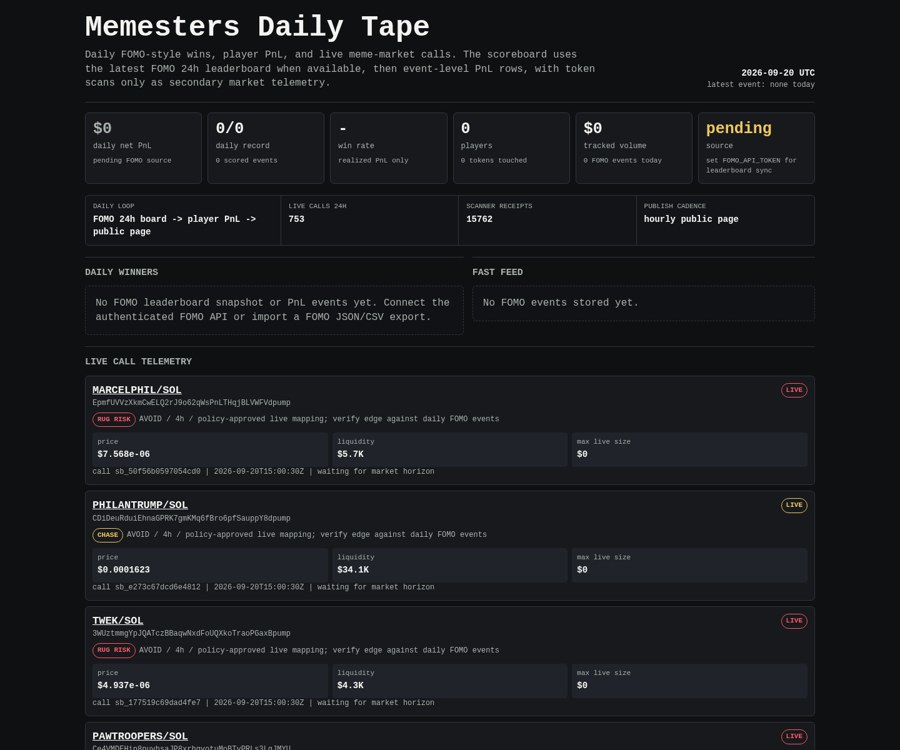
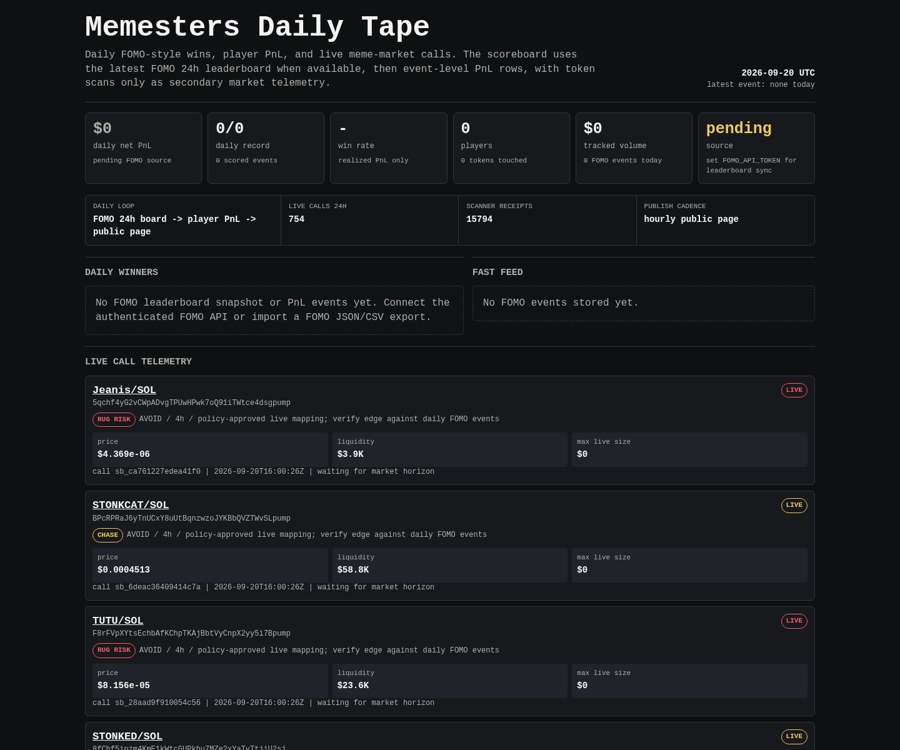
Update Memesters scoreboard

diff --git a/memesters/index.html b/memesters/index.html
@@ -149,8 +149,8 @@
 
     <div class="rail" aria-label="live operating loop">
       <div><span>daily loop</span><b>FOMO 24h board -> player PnL -> public page</b></div>
-      <div><span>live calls 24h</span><b>753</b></div>
-      <div><span>scanner receipts</span><b>15762</b></div>
+      <div><span>live calls 24h</span><b>754</b></div>
+      <div><span>scanner receipts</span><b>15794</b></div>
       <div><span>publish cadence</span><b>hourly public page</b></div>
     </div>
 
@@ -171,8 +171,8 @@
     <article class="receipt">
       <div class="receipt-head">
         <div>
-          <div class="pair"><a href="https://dexscreener.com/solana/fmlxkvax3amjsspg1zdjassumujxnazc86b2rhdaremg">MARCELPHIL/SOL</a></div>
-          <div class="addr">EpmfUVVzXkmCwELQ2rJ9o62qWsPnLTHqjBLVWFVdpump</div>
+          <div class="pair"><a href="https://dexscreener.com/solana/64kvzdq4f2pfet12q3xpjmyp8ter8pd1nye4yxibdxfw">Jeanis/SOL</a></div>
+          <div class="addr">5qchf4yG2vCWpADvgTPUwHPwk7oQ91iTWtce4dsgpump</div>
           <div class="addr policy-line">
             <span class="badge rug-risk">RUG RISK</span>
             <span>AVOID / 4h / policy-approved live mapping; verify edge against daily FOMO events</span>
@@ -181,19 +181,19 @@
         <span class="badge rug-risk">LIVE</span>
       </div>
       <div class="receipt-grid">
-        <div class="kv"><span>price</span><b>$7.568e-06</b></div>
-        <div class="kv"><span>liquidity</span><b>$5.7K</b></div>
+        <div class="kv"><span>price</span><b>$4.369e-06</b></div>
+        <div class="kv"><span>liquidity</span><b>$3.9K</b></div>
         <div class="kv"><span>max live size</span><b>$0</b></div>
       </div>
-      <div class="outcomes">call sb_50f56b0597054cd0 | 2026-09-20T15:00:30Z | waiting for market horizon</div>
+      <div class="outcomes">call sb_ca761227edea41f0 | 2026-09-20T16:00:26Z | waiting for market horizon</div>
     </article>
     
 
     <article class="receipt">
       <div class="receipt-head">
         <div>
-          <div class="pair"><a href="https://dexscreener.com/solana/8sggnw44cxywxvrmwzkz2jfueja3ydxyvdwa95vjhysp">PHILANTRUMP/SOL</a></div>
-          <div class="addr">CDiDeuRduiEhnaGPRK7gmKMq6fBro6pfSauppY8dpump</div>
+          <div class="pair"><a href="https://dexscreener.com/solana/6xpnaknvtpjzgtagqv2gaghjwkmq6v2ntncfbrx8gfx3">STONKCAT/SOL</a></div>
+          <div class="addr">BPcRPRaJ6yTnUCxY8uUtBqnzwzoJYKBbQVZTWvSLpump</div>
           <div class="addr policy-line">
             <span class="badge chase">CHASE</span>
             <span>AVOID / 4h / policy-approved live mapping; verify edge against daily FOMO events</span>
@@ -202,19 +202,19 @@
         <span class="badge chase">LIVE</span>
       </div>
       <div class="receipt-grid">
-        <div class="kv"><span>price</span><b>$0.0001623</b></div>
-        <div class="kv"><span>liquidity</span><b>$34.1K</b></div>
+        <div class="kv"><span>price</span><b>$0.0004513</b></div>
+        <div class="kv"><span>liquidity</span><b>$58.8K</b></div>
         <div class="kv"><span>max live size</span><b>$0</b></div>
       </div>
-      <div class="outcomes">call sb_e273c67dcd6e4812 | 2026-09-20T15:00:30Z | waiting for market horizon</div>
+      <div class="outcomes">call sb_6deac36409414c7a | 2026-09-20T16:00:26Z | waiting for market horizon</div>
     </article>
     
 
     <article class="receipt">
       <div class="receipt-head">
         <div>
-          <div class="pair"><a href="https://dexscreener.com/solana/9lcxfgzyj5pfmj8deqbatum5beaguiukqaeg5hokt4um">TWEK/SOL</a></div>
-          <div class="addr">3WUztmmgYpJQATczBBaqwNxdFoUQXkoTraoPGaxBpump</div>
+          <div class="pair"><a href="https://dexscreener.com/solana/6z3cpe5euhocmf7ysbnaybc8uh7kpk5htplkozizpye5">TUTU/SOL</a></div>
+          <div class="addr">F8rFVpXYtsEchbAfKChpTKAjBbtVyCnpX2yy5i7Bpump</div>
           <div class="addr policy-line">
             <span class="badge rug-risk">RUG RISK</span>
             <span>AVOID / 4h / policy-approved live mapping; verify edge against daily FOMO events</span>
@@ -223,61 +223,40 @@
         <span class="badge rug-risk">LIVE</span>
       </div>
       <div class="receipt-grid">
-        <div class="kv"><span>price</span><b>$4.937e-06</b></div>
-        <div class="kv"><span>liquidity</span><b>$4.3K</b></div>
+        <div class="kv"><span>price</span><b>$8.156e-05</b></div>
+        <div class="kv"><span>liquidity</span><b>$23.6K</b></div>
         <div class="kv"><span>max live size</span><b>$0</b></div>
       </div>
-      <div class="outcomes">call sb_177519c69dad4fe7 | 2026-09-20T15:00:30Z | waiting for market horizon</div>
+      <div class="outcomes">call sb_28aad9f910054c56 | 2026-09-20T16:00:26Z | waiting for market horizon</div>
     </article>
     
 
     <article class="receipt">
       <div class="receipt-head">
         <div>
-          <div class="pair"><a href="https://dexscreener.com/solana/ghyup3ot29dqrg3fwqldrt6xttkztb19ixejjqddzddm">PAWTROOPERS/SOL</a></div>
-          <div class="addr">Ce4VMDEHip8puyhsaJP8xrhgvotuMoBTyPRLs3LgJMYU</div>
+          <div class="pair"><a href="https://dexscreener.com/solana/dhhet2q5abwe3qgkhpyfuzfz9dbk4aq8xsvsxmsy1cdb">STONKED/SOL</a></div>
+          <div class="addr">8fChf5inzm4KmE1kWtcGUPkhu7MZe2xYaTyTtjiU2sj</div>
           <div class="addr policy-line">
-            <span class="badge rug-risk">RUG RISK</span>
+            <span class="badge chase">CHASE</span>
             <span>AVOID / 4h / policy-approved live mapping; verify edge against daily FOMO events</span>
           </div>
         </div>
-        <span class="badge rug-risk">LIVE</span>
+        <span class="badge chase">LIVE</span>
       </div>
       <div class="receipt-grid">
-        <div class="kv"><span>price</span><b>$4.912e-06</b></div>
-        <div class="kv"><span>liquidity</span><b>$4.2K</b></div>
+        <div class="kv"><span>price</span><b>$8.924e-05</b></div>
+        <div class="kv"><span>liquidity</span><b>$26.6K</b></div>
         <div class="kv"><span>max live size</span><b>$0</b></div>
       </div>
-      <div class="outcomes">call sb_fae5e08ea3274b4d | 2026-09-20T15:00:30Z | waiting for market horizon</div>
+      <div class="outcomes">call sb_adbd49134eed432e | 2026-09-20T16:00:26Z | waiting for market horizon</div>
     </article>
     
 
     <article class="receipt">
       <div class="receipt-head">
         <div>
-          <div class="pair"><a href="https://dexscreener.com/solana/8wseulqkvn7wqnvnbjlmmottvq27kefkzlt6o9wqmfhh">CATEPHIL/SOL</a></div>
-          <div class="addr">H8oS174Sf2ray6XvhMuGtCZTn1aWgcUd81U9iD2Vpump</div>
-          <div class="addr policy-line">
-            <span class="badge rug-risk">RUG RISK</span>
-            <span>AVOID / 4h / policy-approved live mapping; verify edge against daily FOMO events</span>
-          </div>
-        </div>
-        <span class="badge rug-risk">LIVE</span>
-      </div>
-      <div class="receipt-grid">
-        <div class="kv"><span>price</span><b>$2.619e-06</b></div>
-        <div class="kv"><span>liquidity</span><b>$2.6K</b></div>
-        <div class="kv"><span>max live size</span><b>$0</b></div>
-      </div>
-      <div class="outcomes">call sb_7034f267462a4cbd | 2026-09-20T15:00:30Z | waiting for market horizon</div>
-    </article>
-    
-
-    <article class="receipt">
-      <div class="receipt-head">
-        <div>
-          <div class="pair"><a href="https://dexscreener.com/solana/bguyeozyrsj44jlyvqujcwn1d9zvsknlqjj3gdnbp368">GREENLAND/SOL</a></div>
-          <div class="addr">HvLeKFBX6CGmLQ4x8Y4uKtRgbMVhsq9Aq3Vvf4oHh3im</div>
+          <div class="pair"><a href="https://dexscreener.com/solana/fk2f28shbsupbnrfbu2vjw28thm2p7exhivzbqufjufe">CATFLIX/SOL</a></div>
+          <div class="addr">Go6pFAUH2DJpfTcCv3XdgV9vWTEA4jZcMaNtKzgjpump</div>
           <div class="addr policy-line">
             <span class="badge early">EARLY</span>
             <span>BUY / 1h / policy-approved live mapping; verify edge against daily FOMO events</span>
@@ -286,19 +265,19 @@
         <span class="badge early">LIVE</span>
       </div>
       <div class="receipt-grid">
-        <div class="kv"><span>price</span><b>$6.533e-05</b></div>
-        <div class="kv"><span>liquidity</span><b>$20.4K</b></div>
-        <div class="kv"><span>max live size</span><b>$59</b></div>
+        <div class="kv"><span>price</span><b>$9.8e-05</b></div>
+        <div class="kv"><span>liquidity</span><b>$25.8K</b></div>
+        <div class="kv"><span>max live size</span><b>$310</b></div>
       </div>
-      <div class="outcomes">call sb_d8649ef03cc04a4e | 2026-09-20T15:00:29Z | waiting for market horizon</div>
+      <div class="outcomes">call sb_4ca8fe4981524f9b | 2026-09-20T16:00:26Z | waiting for market horizon</div>
     </article>
     
 
     <article class="receipt">
       <div class="receipt-head">
         <div>
-          <div class="pair"><a href="https://dexscreener.com/arc/0xa3b79f78302cd1b79208435941fb2eb170138f8ede1f4a69d43615c612358a88">AI/USDC</a></div>
-          <div class="addr">0x9f9b90410aD58baEa8B63A055cAb687216Fd33B0</div>
+          <div class="pair"><a href="https://dexscreener.com/arc/0xfdac11b0f9e0a0d90d6bcb4c0d172589f04142ad1b288b0b17e1c7d59838f9d8">NECOARC/USDC</a></div>
+          <div class="addr">0xb9e92AE83dcB5FDD0b754577FF48d7e8Cfe89362</div>
           <div class="addr policy-line">
             <span class="badge chase">CHASE</span>
             <span>AVOID / 4h / policy-approved live mapping; verify edge against daily FOMO events</span>
@@ -307,19 +286,19 @@
         <span class="badge chase">LIVE</span>
       </div>
       <div class="receipt-grid">
-        <div class="kv"><span>price</span><b>$2.594e-05</b></div>
-        <div class="kv"><span>liquidity</span><b>$13.6K</b></div>
+        <div class="kv"><span>price</span><b>$1.574e-05</b></div>
+        <div class="kv"><span>liquidity</span><b>$10.0K</b></div>
         <div class="kv"><span>max live size</span><b>$0</b></div>
       </div>
-      <div class="outcomes">call sb_e463ce218c554b4b | 2026-09-20T15:00:29Z | waiting for market horizon</div>
+      <div class="outcomes">call sb_6244d920d15a4098 | 2026-09-20T16:00:25Z | waiting for market horizon</div>
     </article>
     
 
     <article class="receipt">
       <div class="receipt-head">
         <div>
-          <div class="pair"><a href="https://dexscreener.com/robinhood/0xab982bc0454dd85bb2f2b8c8c008eb98203de4fa45546651e8db4b8a2e5247c1">HOODIE/ETH</a></div>
-          <div class="addr">0xAc6aA69489dC51fB002A8AE4096b35cbD9F405aC</div>
+          <div class="pair"><a href="https://dexscreener.com/bsc/0x52be0a04d384dfc764ed9bc38bb0b9e1efe1dece">DPAID/WBNB</a></div>
+          <div class="addr">0xD83e689e1637a4B2175a312DCeF1Cd2063457777</div>
           <div class="addr policy-line">
             <span class="badge chase">CHASE</span>
             <span>AVOID / 4h / policy-approved live mapping; verify edge against daily FOMO events</span>
@@ -328,19 +307,19 @@
         <span class="badge chase">LIVE</span>
       </div>
       <div class="receipt-grid">
-        <div class="kv"><span>price</span><b>$7.47e-05</b></div>
-        <div class="kv"><span>liquidity</span><b>$25.7K</b></div>
+        <div class="kv"><span>price</span><b>$1.744e-05</b></div>
+        <div class="kv"><span>liquidity</span><b>$19.0K</b></div>
         <div class="kv"><span>max live size</span><b>$0</b></div>
       </div>
-      <div class="outcomes">call sb_26e04c12901c4afc | 2026-09-20T15:00:29Z | waiting for market horizon</div>
+      <div class="outcomes">call sb_bd258c4dc6a6492a | 2026-09-20T16:00:25Z | waiting for market horizon</div>
     </article>
     
 
     <article class="receipt">
       <div class="receipt-head">
         <div>
-          <div class="pair"><a href="https://dexscreener.com/robinhood/0xdadb45db0e22da9638f53c2be7a5eee4eb5c53c8384729fb1d470d44139cc4c1">Omni/USDG</a></div>
-          <div class="addr">0xf5b9cAfeCac75d6977314b91E011245f16411361</div>
+          <div class="pair"><a href="https://dexscreener.com/solana/69slxdwelgxc1vzugrnljjfg4suawdqjqajjs55e99jk">FOLKCAT/SOL</a></div>
+          <div class="addr">CtoeQU4xG5KoyTTxRq2SpkVkvke3AR8fw1ef4iHdpump</div>
           <div class="addr policy-line">
             <span class="badge chase">CHASE</span>
             <span>AVOID / 4h / policy-approved live mapping; verify edge against daily FOMO events</span>
@@ -349,32 +328,53 @@
         <span class="badge chase">LIVE</span>
       </div>
       <div class="receipt-grid">
-        <div class="kv"><span>price</span><b>$0.0008181</b></div>
-        <div class="kv"><span>liquidity</span><b>$262.1K</b></div>
+        <div class="kv"><span>price</span><b>$0.0001506</b></div>
+        <div class="kv"><span>liquidity</span><b>$32.5K</b></div>
         <div class="kv"><span>max live size</span><b>$0</b></div>
       </div>
-      <div class="outcomes">call sb_4ae323fe7f464a88 | 2026-09-20T14:45:24Z | waiting for market horizon</div>
+      <div class="outcomes">call sb_8e412368eb6d4c12 | 2026-09-20T16:00:25Z | waiting for market horizon</div>
     </article>
     
 
     <article class="receipt">
       <div class="receipt-head">
         <div>
-          <div class="pair"><a href="https://dexscreener.com/bsc/0x685cc6c3dea2027cf797038f558e062642af28f1">4PAY/WBNB</a></div>
-          <div class="addr">0x444dF987cDda0fc9FDAD3B970048012E56897777</div>
+          <div class="pair"><a href="https://dexscreener.com/solana/e6e8otz6tpx52eu8q7gxhjaunzinzituspguxcljdk7r">SPURDO/PEPE</a></div>
+          <div class="addr">2oguDsc3BG5N7WdjaJtkeamij9VycCuyCnB455ZaJbXP</div>
           <div class="addr policy-line">
-            <span class="badge early">EARLY</span>
-            <span>BUY / 1h / policy-approved live mapping; verify edge against daily FOMO events</span>
+            <span class="badge chase">CHASE</span>
+            <span>AVOID / 4h / policy-approved live mapping; verify edge against daily FOMO events</span>
           </div>
         </div>
-        <span class="badge early">LIVE</span>
+        <span class="badge chase">LIVE</span>
       </div>
       <div class="receipt-grid">
-        <div class="kv"><span>price</span><b>$4.345e-06</b></div>
-        <div class="kv"><span>liquidity</span><b>$9.4K</b></div>
-        <div class="kv"><span>max live size</span><b>$113</b></div>
+        <div class="kv"><span>price</span><b>$0.0001451</b></div>
+        <div class="kv"><span>liquidity</span><b>$35.0K</b></div>
+        <div class="kv"><span>max live size</span><b>$0</b></div>
       </div>
-      <div class="outcomes">call sb_f497d528f5314463 | 2026-09-20T14:45:24Z | waiting for market horizon</div>
+      <div class="outcomes">call sb_484695db16c446d1 | 2026-09-20T15:45:23Z | waiting for market horizon</div>
+    </article>
+    
+
+    <article class="receipt">
+      <div class="receipt-head">
+        <div>
+          <div class="pair"><a href="https://dexscreener.com/robinhood/0x8079bd873e2aed49818ae413adbb9a1794feddf8aafbc200a26f2b1be77ecec9">0XBOT/ETH</a></div>
+          <div class="addr">0xEcD51BEf50818b7E0c90e9F889b5Ec29d54CbbA3</div>
+          <div class="addr policy-line">
+            <span class="badge rug-risk">RUG RISK</span>
+            <span>AVOID / 4h / policy-approved live mapping; verify edge against daily FOMO events</span>
+          </div>
+        </div>
+        <span class="badge rug-risk">LIVE</span>
+      </div>
+      <div class="receipt-grid">
+        <div class="kv"><span>price</span><b>$9.735e-06</b></div>
+        <div class="kv"><span>liquidity</span><b>$9.3K</b></div>
+        <div class="kv"><span>max live size</span><b>$0</b></div>
+      </div>
+      <div class="outcomes">call sb_cbc206c426964ccb | 2026-09-20T15:45:23Z | waiting for market horizon</div>
     </article>
     
     </section>
